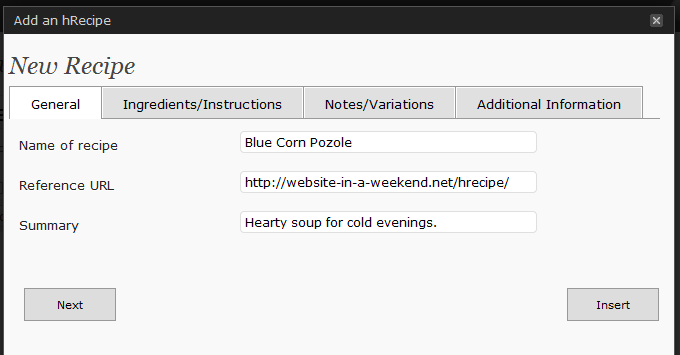
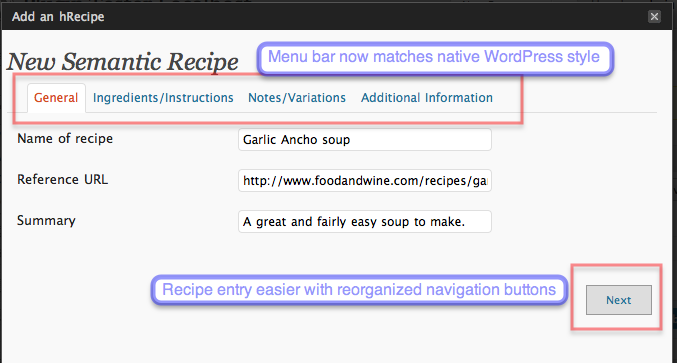
Getting ready to release 0.5.5

diff --git a/view/admin/options.php b/view/admin/options.php
@@ -420,6 +420,16 @@ function hrecipe_donate_postbox($id,$title) {
 hRecipe is truly a labor of love, but 
 love always goes better with a little bread.
 </p>
+<ul>
+<li>Theresa S.</li>
+<li>Susan Voison - <a href="http://blog.fatfreevegan.com/">Fat Free Vegan</a></li>
+<li><a href="http://transcriptionconnections.com/">Transcription Connections</a></li>
+<li><a href="http://annebender.com/">Anne Bender</a></li>
+<li><a href="http://bransonsparks.com">Branson Sparks</a></li>
+</ul>
+<p>If would like to take your place at the head of 
+this list, hit that shiny orange PayPal Donate
+button right above.  Thanks!</p>
 EOF;
 	hrecipe_postbox($id,$title,$content);
 }
@@ -430,9 +440,9 @@ EOF;
 ?>
 <?php //bpe_appreciation('bpe-appreciation','Like this plugin?'); ?> 
 <?php //bpe_support('bpe-get-support','Need support?'); ?>
-<?php hrecipe_donate_postbox('donate','<strong class="red">Donate $5, $10, $20 or $50!</strong>'); ?>
-<?php hrecipe_news('wiawlatest', 'News: Website In A Weekend','http://website-in-a-weekend.net/feed/','wiaw'); ?>
+<?php hrecipe_donate_postbox('donate','<strong class="red">Donate $5, $12, $25 or $50!</strong>'); ?>
 <?php hrecipe_news('hrecipelatest', 'News: hRecipe for WordPress','http://hrecipe.com/feed/','hrecipe'); ?>
+<?php hrecipe_news('wiawlatest', 'News: Website In A Weekend','http://website-in-a-weekend.net/feed/','wiaw'); ?>
 <?php hrecipe_news('tinoboxlatest', 'News: There Is No Box','http://tinobox.com/wordpress/feed/','tinobox'); ?>
 
 </div><!-- meta-box-sortables -->

diff --git a/view/hrecipe_form_body.php b/view/hrecipe_form_body.php
@@ -1,5 +1,5 @@
 <div class="wrap">
-<h2><?php _e('New Recipe','hrecipe'); ?></h2>
+<h2><?php _e('New Semantic Recipe','hrecipe'); ?></h2>
 
 
 <div>
